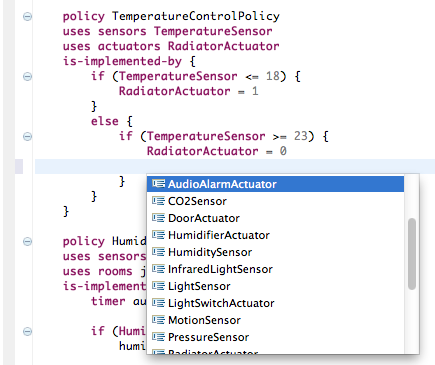
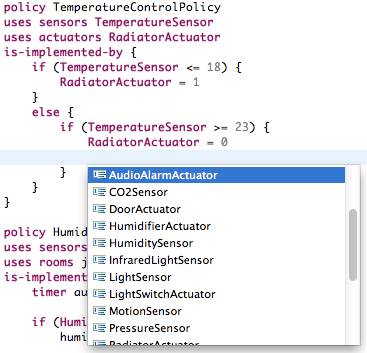
All DSL images has been cropped and scaled. ECore models are missing until parallel work is finished.

diff --git a/documents/llncs.tex b/documents/llncs.tex
@@ -78,9 +78,9 @@ Finally, this project is based on the requirements defined by the professionals 
 \section{Design and development}\label{sec:dsldesign} 
 By using Eclipse~\cite{eclipse}, EMF~\cite{emf} and Xtext~\cite{xtext} we built a domain specific language that is rich enough to express the policies discovered in the analysis. We developed a grammar that is based on our programming experience, and believed to have a consistent forthcoming syntax and conceptual constructs. Finally, we used our Policy Engine DSL editor to write the policies.
 
-Our model is of considerable size, and consists of the following core packages, differentiated in separate Ecore Diagrams (can be viewed in full in \nameref{sec:appendix-a}); 9 sensors classes, 6 actuators classes, 6 expression language classes, 5 building definition classes and 10 policy definition classes.
+Our model is of considerable size, and consists of the following core packages, differentiated in separate Ecore Diagrams (can be viewed in full in \nameref{sec:appendix-a}); 9 sensors classes (see Figure \ref{fig:ecore-sensors}), 6 actuators classes (see Figure \ref{fig:ecore-actuators}), 6 expression language classes (see \ref{fig:ecore-expression-language}), 5 building definition classes (see Figure \ref{fig:ecore-building-definition}) and 10 policy definition classes (see Figure \ref{fig:ecore-policy-definition}).
 
-We have included the full DSL implementation of one of the interviewees, Br\"{u}el \& Kj\ae r in \nameref{app:a-metamodel}. Please note that this is a fully working implementation that is running in Eclipse.
+We have included the full DSL implementation based on two of the interviews, one for Br\"{u}el \& Kj\ae r (see  \nameref{app:bogk}) and one for K\o benhavns Tekniske Skole (see \nameref{app:kts}). Please note that they are fully working implementations running in Eclipse..
 
 \begin{figure}[h]
 	\centering
@@ -88,13 +88,6 @@ We have included the full DSL implementation of one of the interviewees, Br\"{u}
 	\caption{A fragment of the \textit{sensor} metamodel hierarchy.}
 	\label{fig:ecore-sensors}
 \end{figure}
-
-\subsection{Sensors}
-To be written!
-
-\newpage
-\subsection{Actuators}
-To be written!
 
 \begin{figure}[h]
 	\centering
@@ -123,7 +116,6 @@ In order to specify the building(s) with all their floors and rooms, the core cl
 \end{figure}
 
 \subsection{Policy definition}
-
 
 \begin{figure}
   \centering
@@ -157,7 +149,7 @@ A \textit{time conditional expression} is an `if' statement that can react based
 
 \begin{figure}
   \centering
-    \includegraphics[scale=.6]{dsl-conditional-time-expression.png} 
+    \includegraphics[scale=.5]{dsl-conditional-time-expression.png} 
 	\caption{An example of a \textit{time conditional expression} that evaluates to true if more than 20 minutes have passed.}
 	\label{fig:dsl-conditionalexpression}
 \end{figure}
@@ -180,7 +172,7 @@ To avoid confusing the DSL user with an overwhelming amount of declarations of r
 
 \begin{figure}
   \centering
-    \includegraphics[width=10cm]{dsl-room-types.png}
+    \includegraphics[scale=.5]{dsl-room-types.png}
 	\caption{An example of \textit{room types} defined for a interviewee.}
 	\label{fig:room-types}
 \end{figure}
@@ -190,7 +182,7 @@ Building specification as in the example below, helps us map out the actual buil
 
 \begin{figure}
   \centering
-  \includegraphics[width=10cm]{dsl-building-definition.png}  
+  \includegraphics[scale=.5]{dsl-building-definition.png}  
   \caption{An example of \textit{building specification} defined for a interviewee.}
   \label{fig:dsl-building-definition}
 \end{figure}
@@ -212,16 +204,10 @@ Policies define the actual behavior, ie. adjustment of actuators, based on senso
 \subsubsection{Br\"{u}el \& Kj\ae r}\label{subsec:bruel}
 The requirements received from Br\"{u}el \& Kj\ae r were implemented in our DSL and can be found in \nameref{sec:dsl-bruel}. One of the requirements from the interview (\textit{all sensor and actuator data stored in a repository for use in a visual display of data in the FM office}) was not implemented in our DSL because we decided to narrow the scope of the project. After evaluating these requirements, we realized that some of the sensors and actuators needed to satisfy the implementation are not defined in our metamodel. While these problems could be easily fixed by simply adding some new classes in the metamodel, we evaluated this area as one that our DSL can be further improved as discussed in \nameref{subsec:def-sensor-actuator-types}.
 
-\subsubsection{Bygningstyrelsen}\label{subsec:bygstyrelsen}
-TO BE EVALUATED
-
 \subsubsection{K\o benhavns Tekniske Skole}\label{subsec:kts}
 The implementation of these requirements in our DSL can be found in \nameref{sec:dsl-kts} and just like in the evaluation in \nameref{subsec:bruel}, we faced the same lack of sensors and actuators. This seems to be a recurring issue in our language but nonetheless it provides a nice opportunity to improve our language. It is further discussed in \nameref{subsec:def-sensor-actuator-types}. 
 Another aspect of our language that can be refined is the ability to define how each policy should be used as discussed in \nameref{subsec:during}. 
  
-\subsubsection{UNI-C}\label{subsec:uni-c}
-TO BE EVALUATED
-
 \section{Discussion}\label{sec:discussion}
 During the design and implementation of our metamodel we made many different design decisions, primarily based on the length and scope of this project and revelations from the interviews.
 
@@ -238,7 +224,7 @@ Code completion is of great importance to our language because it really helps t
 
 \begin{figure}
   \centering
-    \includegraphics[width=10cm]{dsl-code-completion.png} 
+    \includegraphics[scale=.5]{dsl-code-completion.png} 
 	\caption{An example of \textit{code completion}.}
 	\label{fig:code-completion}
 \end{figure}
@@ -255,7 +241,7 @@ In its current state, our DSL allows us to determine when the policies should be
 \begin{figure}
   \centering
     \includegraphics[scale=0.5]{dsl-during.png} 
-	\caption{An example to \textit{during} when using policies in rooms.}
+	\caption{An example showing how to chain together policies with execution schedules using the \textit{during} keyword.}
 	\label{fig:during}
 \end{figure}
 In case we have several governing policies that run on different schedules, our DSL does not allow us to assign a specific schedule to every single governing policy. An interesting improvement that could increase our DSL's flexibility would be the ability to specify a different schedule for each of the policies governing a room. 
@@ -269,11 +255,10 @@ In our point of view, the proposed DSL constitutes a useful tool to every simple
 \section{Appendix A - DSL MetaModel}\label{app:a-metamodel}
 The complete Ecore MetaModel can be viewed online at
 \url{https://github.com/rugbroed/BPE/blob/Version-0.9/documents/ecore-policy-engine.png}
-
-\includepdf[pages=1,scale=.8,pagecommand=\section{Appendix B - Br\"{u}el \& Kj\ae r}]{BruelOgKjaer.pdf}
+\includepdf[pages=1,scale=.8,pagecommand=\section{Appendix B - Br\"{u}el \& Kj\ae r}\label{app:bogk}]{BruelOgKjaer.pdf}
 \includepdf[pages=2-,scale=.8,pagecommand={}]{BruelOgKjaer.pdf}
 
-\includepdf[pages=1,scale=.8,pagecommand=\section{Appendix C - DSL for K\o benhavns Tekniske Skole}\label{sec:bygningsstyrelsen}]{BruelOgKjaer.pdf}
+\includepdf[pages=1,scale=.8,pagecommand=\section{Appendix C - K\o benhavns Tekniske Skole}\label{app:kts}]{BruelOgKjaer.pdf}
 \includepdf[pages=2-,scale=.8,pagecommand={}]{BruelOgKjaer.pdf}
 
 \end{document}
